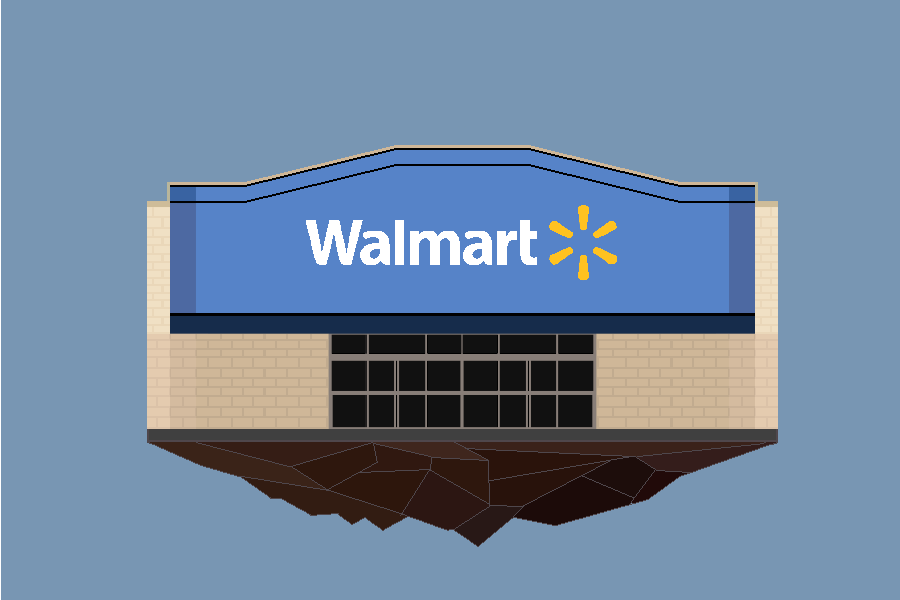
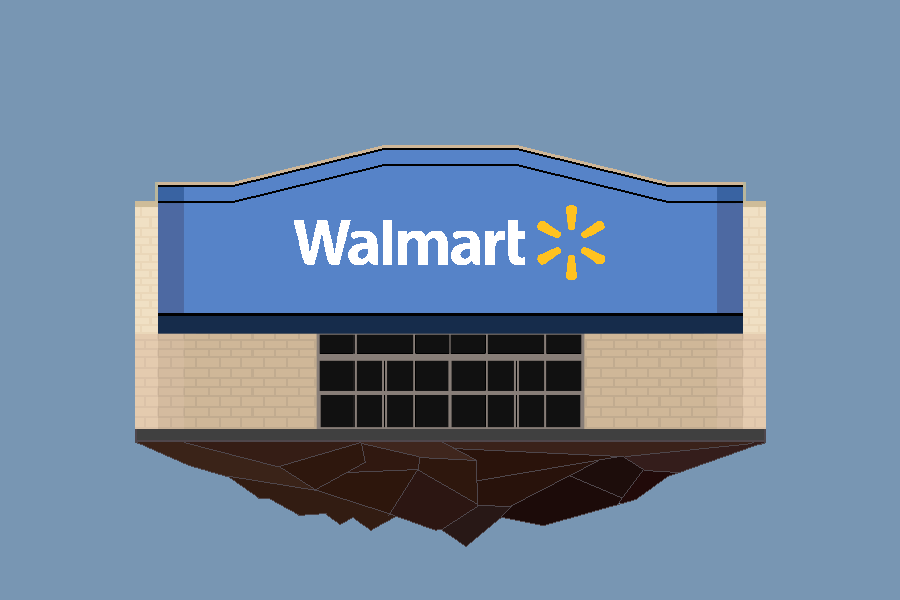
Small fix for jumps, moving background / platforms

diff --git a/index.js b/index.js
@@ -32,11 +32,11 @@ const map1 = new Map({
     position2: { x: 703, y: 10 }, 
     background: "media/images/backgrounds/walmart.png",
     platforms: new Set([
-        new Platform({ width: 631, height: 17, position: { x: 147, y: 429 }, isBase: true }),
-        new Platform({ width: 137, height: 17, position: { x: 394, y: 149 }, isBase: false }),
-        new Platform({ width: 77, height: 17, position: { x: 170, y: 185 }, isBase: false }),
-        new Platform({ width: 77, height: 17, position: { x: 678, y: 185 }, isBase: false }),
-        new Platform({ width: 265, height: 20, position: { x: 330, y: 313 }, isBase: false })
+        new Platform({ width: 631, height: 17, position: { x: 135, y: 429 }, isBase: true }),
+        new Platform({ width: 137, height: 17, position: { x: 382, y: 149 }, isBase: false }),
+        new Platform({ width: 77, height: 17, position: { x: 158, y: 185 }, isBase: false }),
+        new Platform({ width: 77, height: 17, position: { x: 666, y: 185 }, isBase: false }),
+        new Platform({ width: 265, height: 20, position: { x: 318, y: 313 }, isBase: false })
     ])
 })
 

diff --git a/js/entities/player.js b/js/entities/player.js
@@ -68,7 +68,7 @@ class Player extends Entity {
 
         if (this.inputs.jump && this.isOnGround) {
             this.velocity.y += this.speed.y
-            this.jumps++
+            setTimeout(() => { this.jumps++ }, 20)
         }
 
         this.previousDirection = this.direction
